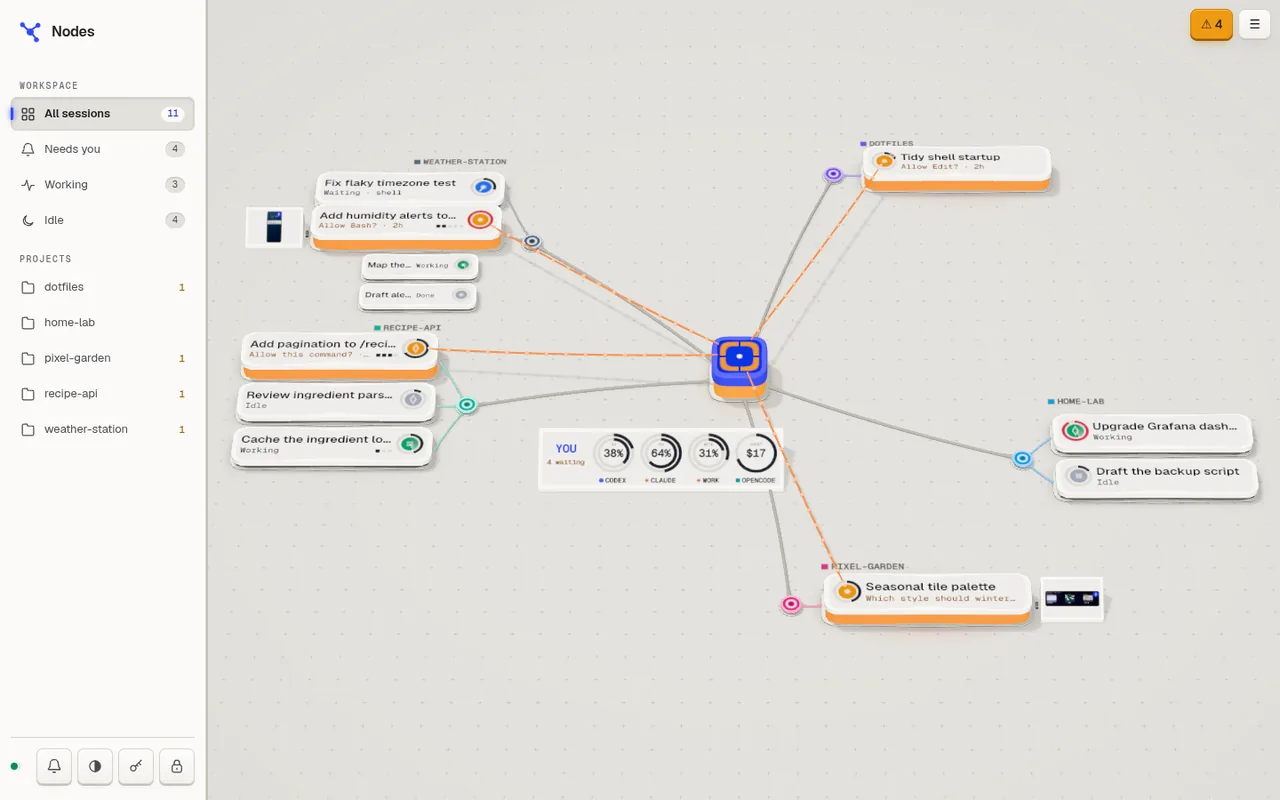
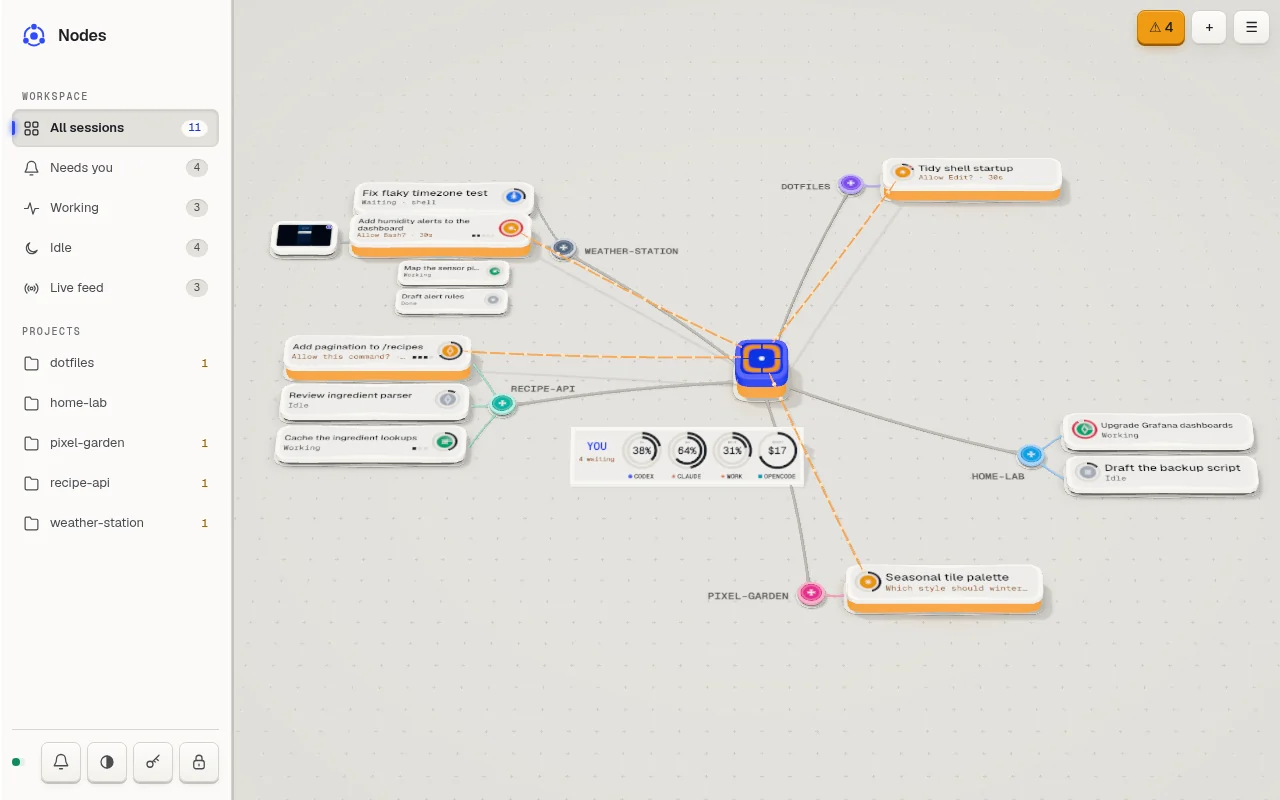
README: Nodes screenshots for the current looks, plus list, chat and phone
Reshoots all six looks from the demo, since the old ones predate the
reworked labels, + button, usage panels and Steampunk hall. Adds the
board's pan and zoom keys to the feature line.

diff --git a/README.md b/README.md
@@ -19,7 +19,7 @@ A self-hosted dashboard for local Codex, Claude Code and OpenCode sessions on **
 - Brick Knights: a toy castle built live in 3D, one scene where every wall, tray, button and meter is real brick geometry on one grid and each label is printed on its brick, so they scroll, press and arrive together. A dragon crosses the keep, minifigures mark sessions and the castle gate opens at start-up.
 - A pixel-art Metropolis where each project is a neighbourhood and each session a building that grows while it runs.
 - Fantasy Battle, an RPG where each project is a fight, each session a party member and each subagent a minion, with context counting down to Compact, tools as spells, a closing blow when a session finishes, and a boot logo and title screen.
-- Nodes, every session a node round you on a 3D board, in five looks with their own lists: Clean (light or dark), Neurons, Synthetic circuits, a Steampunk plant and Mycelium. Status, activity, context, plans, screenshots and usage show on the board itself.
+- Nodes, every session a node round you on a 3D board, in five looks with their own lists: Clean (light or dark), Neurons, Synthetic circuits, a Steampunk plant and Mycelium. Status, activity, context, plans, screenshots and usage show on the board itself. Pan with the arrows, WASD or a flick, zoom with **+** and **-**, and **0** shows it all.
 - Trickshot in the Office's kitchen: land a paper ball or mug in its target or hit a fruit with a rubber ball or plate, with six levels, three daily shots and a score board.
 - Local access or access from other devices over Tailscale, protected by a PIN or password.
 
@@ -118,6 +118,10 @@ The Fantasy Battle theme is an original design and is not affiliated with any fr
 | Synthetic | Steampunk | Mycelium |
 | --- | --- | --- |
 | ![Nodes as a circuit board](docs/screenshots/nodes-synthetic.webp) | ![Nodes as a steam plant](docs/screenshots/nodes-steampunk.webp) | ![Nodes as mycelium](docs/screenshots/nodes-mycelium.webp) |
+
+| Steampunk's list | Steampunk's chat | Neurons on a phone |
+| --- | --- | --- |
+| ![Steampunk's session list in the machine hall](docs/screenshots/nodes-list.webp) | ![A permission request in Steampunk's chat](docs/screenshots/nodes-chat.webp) | ![Nodes as neurons on a phone](docs/screenshots/nodes-phone.webp) |
 
 [More screenshots, including mobile](docs/screenshots).
 
